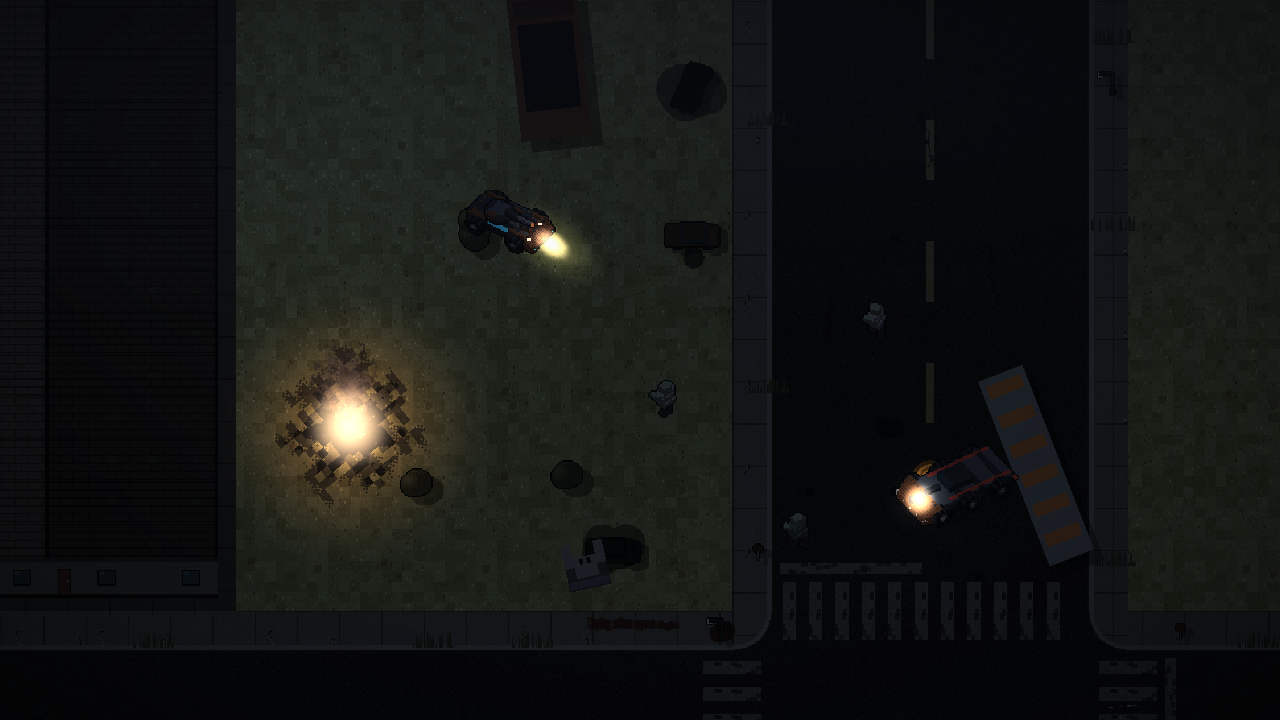
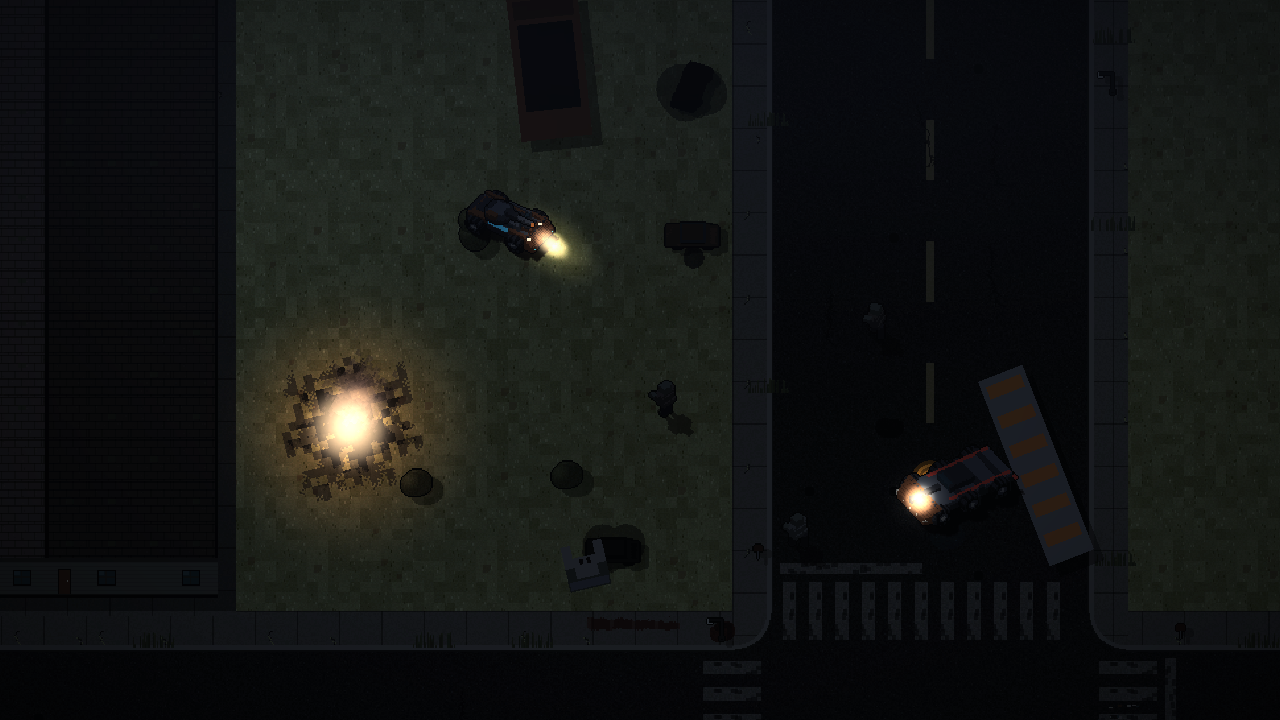
Refresh the look-test shots on current main.
Shadows and lights sheets from main are in the frames. Draw calls are 27 before and 31 after. The blur shot is gone.

Changed region(s): [[0.2188, 0.4889, 0.3438, 0.7028], [0.4062, 0.3361, 0.4375, 0.3667]]

diff --git a/docs/LOOKTEST_HD2D.md b/docs/LOOKTEST_HD2D.md
@@ -36,10 +36,10 @@ Measured on the capture that shipped with this branch (xvfb, llvmpipe — a ceil
 
 | Shot | Draw calls | Point lights |
 |---|---|---|
-| day_before / night_before | 22 | 0 |
-| day_after / night_after | 26 | 4 |
+| day_before / night_before | 27 | 0 |
+| day_after / night_after | 31 | 4 |
 
-The stack adds 4 draw calls (22 → 26) for the lights, halo sprites and the grade rect together. The grade is the one backbuffer copy.
+The stack adds 4 draw calls (27 → 31) for the lights, halo sprites and the grade rect together. The grade is the one backbuffer copy. The extra draws versus the earlier capture are the shadow and lights sheets that landed on main.
 
 | Piece | Full-screen passes | Notes |
 |---|---|---|
